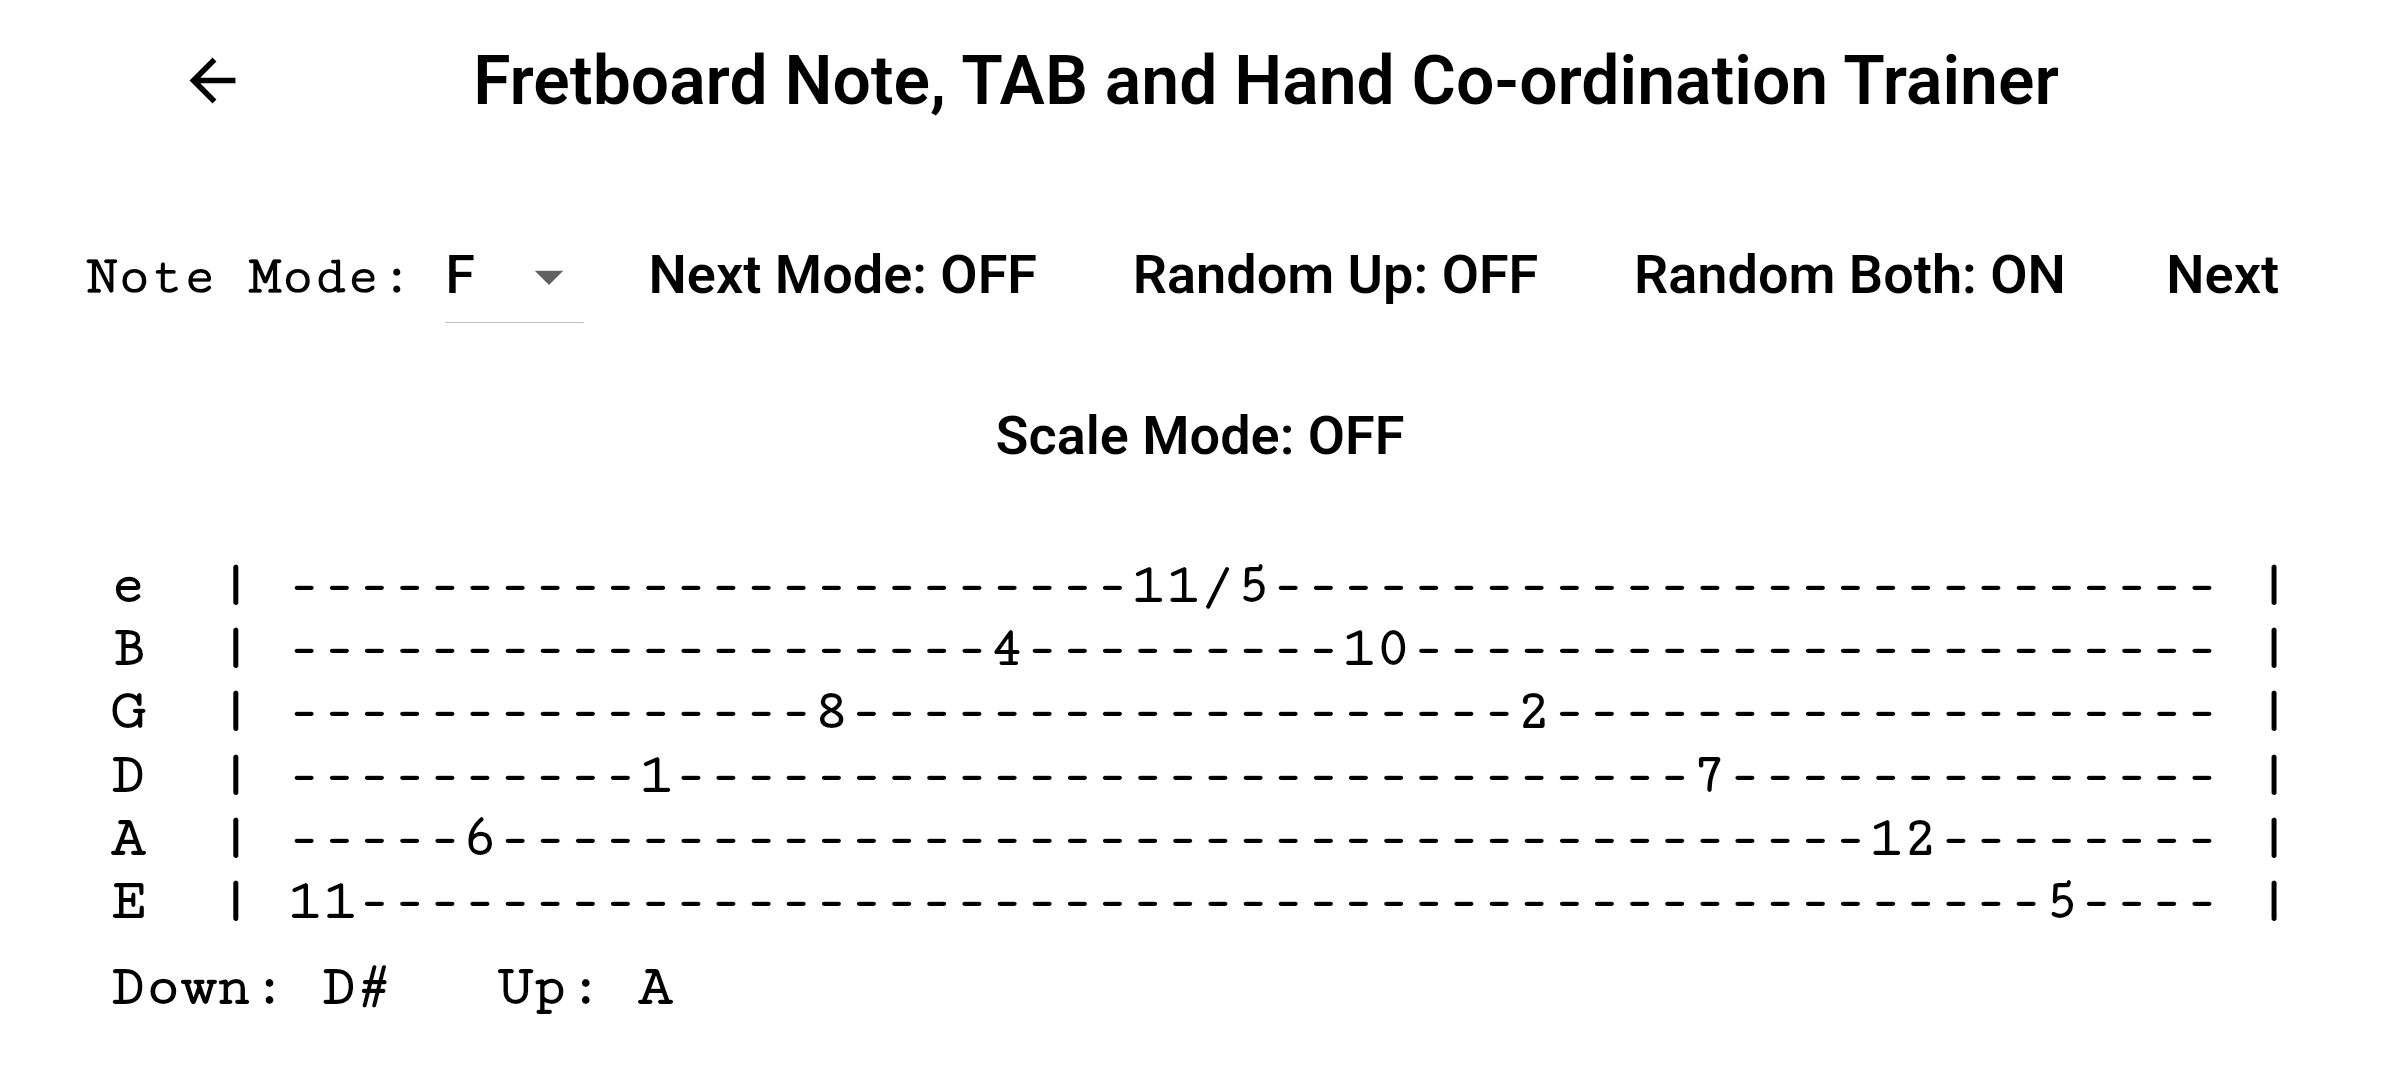
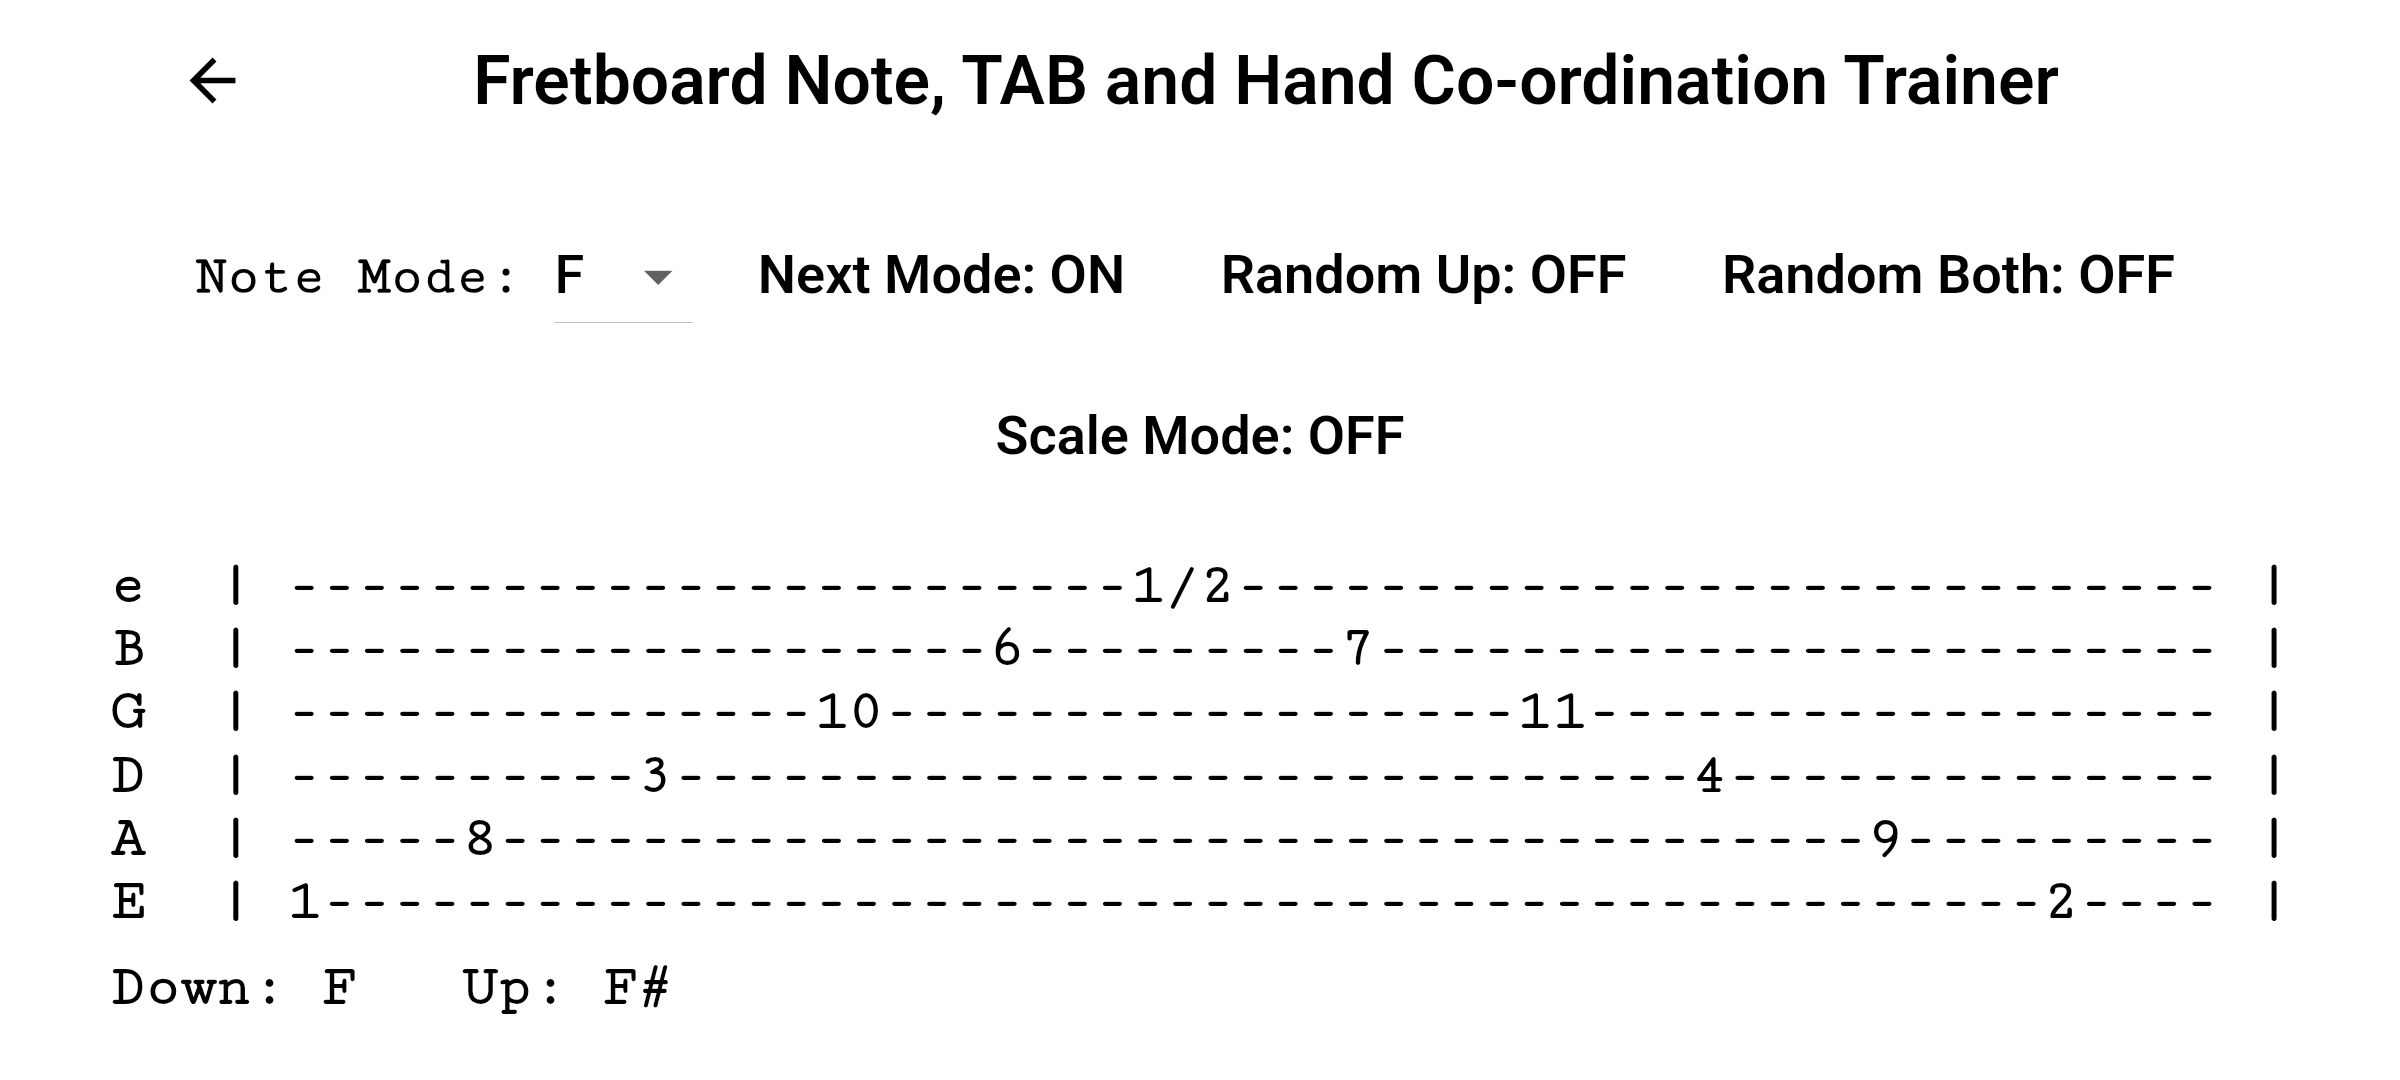
Correct TAB trainer screenshot gallery

diff --git a/fretboard-note-tab-trainer.html b/fretboard-note-tab-trainer.html
@@ -238,9 +238,11 @@
   <div class="content">
 
     <div class="image-column">
-      <img src="images/tab-1.png" alt="BestFret Guitar Fretboard Notes in TAB trainer exercise showing structured TAB practice">
-      <img src="images/tab-2.png" alt="BestFret Guitar Fretboard Notes in TAB trainer random note exercise">
-      <img src="images/tab-3.png" alt="BestFret Guitar Fretboard Notes in TAB trainer scale exercise">
+      <img src="images/tab-1.png" alt="BestFret Guitar Fretboard Notes in TAB trainer structured TAB exercise">
+      <img src="images/tab-2.png" alt="BestFret Guitar Fretboard Notes in TAB trainer note exercise">
+      <img src="images/tab-3.png" alt="BestFret Guitar Fretboard Notes in TAB trainer random note exercise">
+      <img src="images/tab-4.png" alt="BestFret Guitar Fretboard Notes in TAB trainer Random Both exercise">
+      <img src="images/tab-5.png" alt="BestFret Guitar Fretboard Notes in TAB trainer A Minor Pentatonic scale exercise">
     </div>
 
     <div class="text-column">
